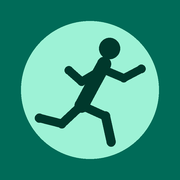
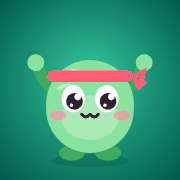
Fix blank screen after deploys, rename to Fibbies, add TODO
Blank screen: the old network-first service worker plus the HTTP cache
could serve a mix of new and old files after a deploy. The service worker
now precaches the full shell (bypassing the HTTP cache) into a versioned
cache, serves cache-first from it and reloads the page once when a new
version takes over (never mid-session). A boot safety net shows a "tap
to refresh" card that clears caches if start-up ever fails.

Rename the app to Fibbies (Stretch & Loot) with critter icons and logo.
Saved progress keeps its storage keys. TODO.md records the native
app + Garmin sync idea.

diff --git a/sw.js b/sw.js
@@ -1,19 +1,28 @@
-// Offline support: network-first for the app shell, cache-first for fonts.
-const CACHE = 'limber-v10';
+// Offline support with atomic updates.
+// Every deploy bumps VERSION. A new worker downloads the whole app shell fresh
+// (bypassing the HTTP cache) before it takes over, and pages are always served
+// from one consistent cache, so old and new files can never be mixed.
+const VERSION = 'fibbies-v11';
 const SHELL = [
   './', 'index.html', 'styles.css', 'manifest.webmanifest',
-  'js/app.js', 'js/data.js', 'js/figure.js', 'js/audio.js', 'js/session.js', 'js/wakelock.js', 'js/rewards.js', 'js/critter.js', 'js/reward-screen.js',
+  'js/app.js', 'js/data.js', 'js/figure.js', 'js/audio.js', 'js/session.js', 'js/wakelock.js',
+  'js/rewards.js', 'js/critter.js', 'js/reward-screen.js',
   'icons/icon.svg', 'icons/icon-180.png', 'icons/icon-192.png', 'icons/icon-512.png', 'icons/icon-maskable-512.png',
 ];
+const FONTS = 'fibbies-fonts';
 
 self.addEventListener('install', (e) => {
-  e.waitUntil(caches.open(CACHE).then((c) => c.addAll(SHELL)).then(() => self.skipWaiting()));
+  e.waitUntil(
+    caches.open(VERSION)
+      .then((c) => c.addAll(SHELL.map((u) => new Request(u, { cache: 'reload' }))))
+      .then(() => self.skipWaiting()),
+  );
 });
 
 self.addEventListener('activate', (e) => {
   e.waitUntil(
     caches.keys()
-      .then((keys) => Promise.all(keys.filter((k) => k !== CACHE).map((k) => caches.delete(k))))
+      .then((keys) => Promise.all(keys.filter((k) => k !== VERSION && k !== FONTS).map((k) => caches.delete(k))))
       .then(() => self.clients.claim()),
   );
 });
@@ -22,28 +31,28 @@ self.addEventListener('fetch', (e) => {
   const req = e.request;
   if (req.method !== 'GET') return;
   const url = new URL(req.url);
+
   if (url.hostname.endsWith('fonts.googleapis.com') || url.hostname.endsWith('fonts.gstatic.com')) {
-    e.respondWith(
-      caches.match(req).then((hit) => hit || fetch(req).then((res) => {
-        const copy = res.clone();
-        caches.open(CACHE).then((c) => c.put(req, copy));
-        return res;
-      })),
-    );
+    e.respondWith(caches.open(FONTS).then((c) => c.match(req).then((hit) => hit || fetch(req).then((res) => {
+      if (res.ok || res.type === 'opaque') c.put(req, res.clone());
+      return res;
+    }))));
     return;
   }
   if (url.origin !== location.origin) return;
-  const network = fetch(req);
-  const timeout = new Promise((_, rej) => setTimeout(() => rej(new Error('timeout')), 3000));
+
+  // App shell: serve from this version's cache; fall back to the network for anything else.
   e.respondWith(
-    Promise.race([network, timeout]).then((res) => {
-      if (res.ok) {
-        const copy = res.clone();
-        caches.open(CACHE).then((c) => c.put(req, copy));
+    caches.open(VERSION).then(async (c) => {
+      const key = req.mode === 'navigate' && url.pathname.endsWith('/') ? 'index.html' : req;
+      const hit = await c.match(key, { ignoreSearch: true });
+      if (hit) return hit;
+      try {
+        return await fetch(req);
+      } catch {
+        if (req.mode === 'navigate') return (await c.match('index.html')) || Response.error();
+        return Response.error();
       }
-      return res;
-    }).catch(() => caches.match(req, { ignoreSearch: true })
-      .then((hit) => hit || (req.mode === 'navigate' ? caches.match('index.html') : null))
-      .then((hit) => hit || network)),
+    }),
   );
 });

diff --git a/index.html b/index.html
@@ -3,14 +3,14 @@
 <head>
   <meta charset="utf-8">
   <meta name="viewport" content="width=device-width, initial-scale=1, viewport-fit=cover">
-  <title>Limber · Stretches for runners</title>
-  <meta name="description" content="Follow-along 5–10 minute stretching routines for runners, with voice cues, timers and a screen that stays awake.">
+  <title>Fibbies · Stretch & Loot</title>
+  <meta name="description" content="Fibbies: follow-along 5–10 minute stretching routines for runners. Open treasure chests, collect cute muscle friends, keep your streak.">
   <meta name="theme-color" content="#f4fbf8">
   <meta name="color-scheme" content="light dark">
   <meta name="apple-mobile-web-app-capable" content="yes">
   <meta name="mobile-web-app-capable" content="yes">
   <meta name="apple-mobile-web-app-status-bar-style" content="default">
-  <meta name="apple-mobile-web-app-title" content="Limber">
+  <meta name="apple-mobile-web-app-title" content="Fibbies">
   <link rel="manifest" href="manifest.webmanifest">
   <link rel="icon" href="icons/icon.svg" type="image/svg+xml">
   <link rel="apple-touch-icon" href="icons/icon-180.png">
@@ -36,7 +36,7 @@
         <div class="top-bar-row">
           <div class="brand">
             <span class="brand-mark" aria-hidden="true"><span class="ms filled">self_improvement</span></span>
-            <span class="brand-name">Limber</span>
+            <span class="brand-name">Fibbies</span>
           </div>
           <button class="icon-btn ripple" id="btn-settings" aria-label="Settings"><span class="ms">tune</span></button>
         </div>
@@ -166,6 +166,35 @@
 
   <div class="snackbar" id="snackbar" role="status" aria-live="polite"></div>
 
+  <!-- Safety net: if the app fails to start (e.g. a half-updated cache), offer a clean refresh instead of a blank screen. -->
+  <div id="boot-fail" hidden style="position:fixed;inset:0;display:grid;place-items:center;padding:24px;background:var(--surface);z-index:50;text-align:center">
+    <div>
+      <p style="font-size:20px;font-weight:600;margin-bottom:8px">Fibbies needs a quick refresh</p>
+      <p style="color:var(--on-surface-variant);margin-bottom:20px">A new version arrived while loading.</p>
+      <button id="boot-fix" class="btn filled">Tap to refresh</button>
+    </div>
+  </div>
+  <script>
+    (function () {
+      var failed = function () {
+        if (window.__booted) return;
+        var el = document.getElementById('boot-fail');
+        if (el) el.hidden = false;
+      };
+      window.addEventListener('error', failed);
+      window.addEventListener('unhandledrejection', failed);
+      window.addEventListener('load', function () { setTimeout(failed, 8000); });
+      document.getElementById('boot-fix').onclick = function () {
+        var done = function () { location.reload(); };
+        try {
+          Promise.all([
+            navigator.serviceWorker ? navigator.serviceWorker.getRegistrations().then(function (rs) { return Promise.all(rs.map(function (r) { return r.unregister(); })); }) : null,
+            window.caches ? caches.keys().then(function (ks) { return Promise.all(ks.map(function (k) { return caches.delete(k); })); }) : null,
+          ]).then(done, done);
+        } catch (e) { done(); }
+      };
+    })();
+  </script>
   <script type="module" src="js/app.js"></script>
 </body>
 </html>

diff --git a/js/app.js b/js/app.js
@@ -751,8 +751,32 @@ try {
   }
 } catch { /* ignore */ }
 setSoundIcon();
+$('.brand-mark').innerHTML = critterSVG(FIBBIES[0]);
 route();
+window.__booted = true;
+$('#boot-fail').hidden = true; // in case the safety net fired during a slow load
 
+// Service worker: offline + atomic updates. When a new version takes over, reload once
+// so the page never runs a mix of old and new files. Skipped on localhost for development.
 if ('serviceWorker' in navigator && location.protocol.startsWith('http')) {
-  window.addEventListener('load', () => navigator.serviceWorker.register('sw.js').catch(() => {}));
+  const local = ['localhost', '127.0.0.1', '[::1]'].includes(location.hostname);
+  if (local) {
+    navigator.serviceWorker.getRegistrations().then((rs) => rs.forEach((r) => r.unregister())).catch(() => {});
+  } else {
+    // On a first visit the initial claim is not an update, so skip exactly that one.
+    let skipNext = !navigator.serviceWorker.controller;
+    let reloaded = false;
+    navigator.serviceWorker.addEventListener('controllerchange', () => {
+      if (skipNext) { skipNext = false; return; }
+      if (reloaded || session) return; // never interrupt a running session
+      reloaded = true;
+      location.reload();
+    });
+    window.addEventListener('load', () => {
+      navigator.serviceWorker.register('sw.js').then((reg) => {
+        // Installed apps can stay open for days: check for a new version when brought back.
+        document.addEventListener('visibilitychange', () => { if (!document.hidden) reg.update().catch(() => {}); });
+      }).catch(() => {});
+    });
+  }
 }

diff --git a/styles.css b/styles.css
@@ -154,6 +154,8 @@ h1, h2, h3, p { margin: 0; }
   border-radius: 12px 12px 12px 4px;
 }
 .brand-mark .ms { font-size: 22px; }
+.brand-mark { background: var(--primary-container); overflow: hidden; }
+.brand-mark .critter { width: 42px; height: 42px; margin-top: 4px; }
 .display {
   font-size: clamp(34px, 9vw, 44px); line-height: 1.08; font-weight: 450;
   font-variation-settings: 'wdth' 110, 'opsz' 60; letter-spacing: -.02em; margin-top: 18px;

diff --git a/gallery.html b/gallery.html
@@ -3,7 +3,7 @@
 <head>
   <meta charset="utf-8">
   <meta name="viewport" content="width=device-width, initial-scale=1">
-  <title>Limber · Pose gallery</title>
+  <title>Fibbies · Pose gallery</title>
   <link rel="stylesheet" href="styles.css">
   <style>
     body { padding: 16px; }

diff --git a/README.md b/README.md
@@ -1,6 +1,6 @@
-# Limber: stretches for runners
+# Fibbies: stretch & loot
 
-A phone-first web app with follow-along stretching routines for runners. Every routine runs 5–10 minutes and comes with voice guidance, sound cues, an on-screen timer and animated figures that show each pose. The screen stays awake while you stretch.
+A phone-first web app with follow-along stretching routines for runners, wrapped in a treasure-chest reward loop. Every routine runs 5–10 minutes and comes with voice guidance, sound cues, an on-screen timer and animated figures that show each pose. The screen stays awake while you stretch.
 
 ## Features
 
@@ -20,6 +20,8 @@ A phone-first web app with follow-along stretching routines for runners. Every r
 - Hold length setting (short / standard / long), plus an opt-in **Flex 60s** mode that brings every static hold to 60 s per side for flexibility gains, vibration, a streak counter and a weekly tracker
 - No build step and no dependencies, just static HTML, CSS and ES modules
 
+See [TODO.md](TODO.md) for planned ideas.
+
 ## Run locally
 
 ```bash
@@ -31,6 +33,8 @@ Then open http://localhost:5173. ES modules need an HTTP server, so opening `ind
 `gallery.html` is a dev page that renders every pose for checking the figures.
 
 ## Deploy
+
+**Before every push, bump `VERSION` in `sw.js`.** The service worker serves the app cache-first, so returning users only get changes when the version changes.
 
 Everything is static. GitHub Pages serves it straight from the `main` branch root.
 

diff --git a/TODO.md b/TODO.md
@@ -1,0 +1,19 @@
+# Ideas / TODO
+
+## Native app + Garmin sync (idea, not started)
+
+Consider shipping Fibbies as a native Android/iOS app so it can pair with a Garmin watch later.
+
+- **Why native:** the web app can't talk to Garmin directly. Garmin integration goes through:
+  - the **Connect IQ** SDK (a watch app/widget written in Monkey C), plus the Connect IQ Mobile SDK on the phone side;
+  - or the **Garmin Health API** (server-side, partner programme) to read runs and activities.
+- **Possible features:**
+  - start a cooldown automatically when a run ends on the watch;
+  - "Run Sandwich" auto-detected from real runs;
+  - buzz cues on the wrist during stretches.
+- **Cheapest path:** wrap the existing web app with Capacitor, so the same code becomes an Android and iOS app. Add native plugins only for the Garmin bridge, background audio and notifications. Rewrite natively only if needed.
+- **Also gained:** reliable background audio and timers with the screen locked, push reminders ("keep your streak"), and app-store distribution.
+- **Before starting:**
+  - check the Connect IQ developer terms;
+  - check app-store name availability for "Fibbies";
+  - consider a trademark search.
